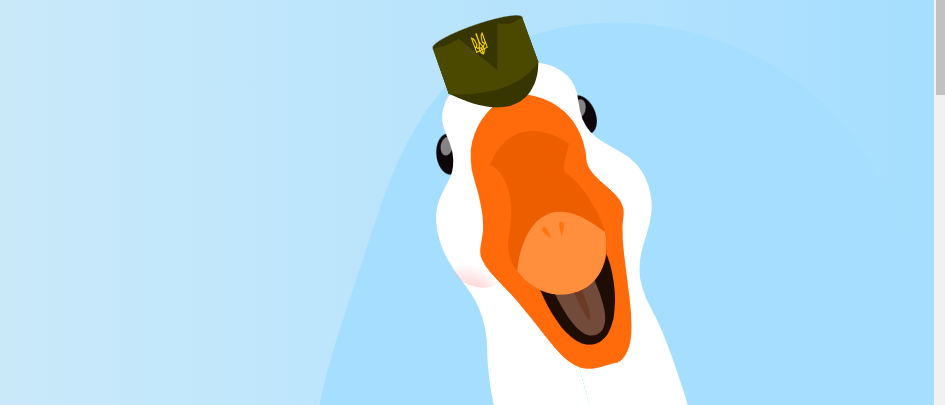
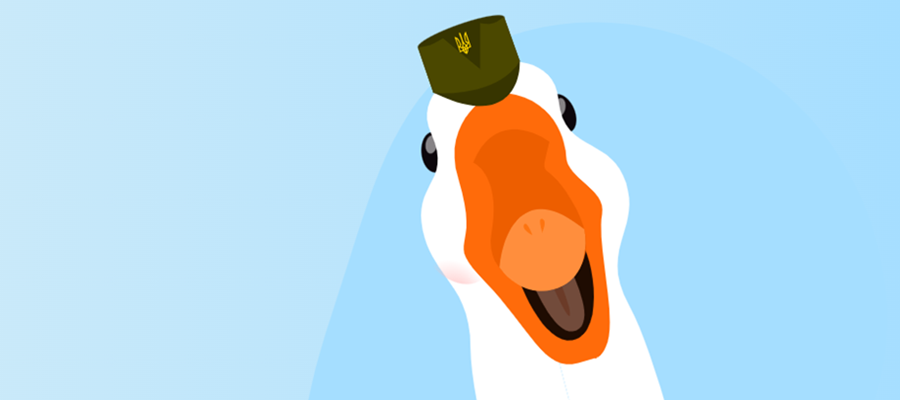
add burger website

diff --git a/styles.css b/styles.css
@@ -8,8 +8,8 @@
 
 .light-mode {
     --color-text: rgb(15, 28, 50);
-    --color-bg: rgb(201, 238, 247);
-    --color-bg-cart: rgb(108, 76, 136);
+    --color-bg: rgb(179, 242, 246);
+    --color-bg-cart: rgb(102, 185, 183);
     --color-menu-text: rgb(208, 224, 240);
     --color-menu-text-hover: rgb(168, 226, 241);
 }
@@ -160,44 +160,46 @@ h2 {
     transform: scale(1.2);
 }
 
-
-
 /* Home page */
 
 .home-page-section {
+    display: flex;
     width: 100%;
     height: 100vh;
-    padding: 28px 0;
+    padding: 28px;
+    justify-content: center;
 }
 
 .home-page-content {
     display: flex;
     flex-direction: column-reverse;
     align-items: center;
-    height: 100vh;
     justify-content: start;
+    margin-top: 10vh;
 }
 
 .home-page-content img {
     background: transparent;
     background-color: transparent;
-    height: 240px;
-    width: 240px;
+    width: 280px;
 }
 
 .home-page-text {
-    padding-top: 16vh;
-    justify-content: center;
+    border-radius: 20px;
+    border-width: 1px 1px 4px 4px;
+    border-style: solid;
+    border-color: black;
+    background-color: var(--color-bg-cart);
+    padding: 16px 30px;
 }
 
 .home-page-text h1 {
     font-size: 40px;
-    margin: 0;
+    margin-bottom: 8px;
 }
 
 .home-page-text h3 {
     font-size: 20px ;
-    margin: 0;
 }
 
 /* Projects */
@@ -219,15 +221,16 @@ h2 {
 .project-cart {
     background: var(--color-bg-cart);
     padding: 8px 16px;
-    border-width: 1px 1px 4px 4px;
-    border-style: solid;
-    border-color: black;
     opacity: .8;
     height: auto;
     aspect-ratio: 20 / 12 ;
     will-change: transform, opacity;
     transition: all 0.3s ease;
     overflow: hidden;
+    border-radius: 20px;
+    border-width: 1px 1px 4px 4px;
+    border-style: solid;
+    border-color: black;
 }
 
 .project-cart:hover {
@@ -245,15 +248,16 @@ h2 {
 }
 
 .project-cart img {
-    max-width: 90%; 
+    position: absolute;
+    bottom: 6px;
+    max-width: 82%; 
     height: auto;
-    object-fit: contain;
     object-fit: cover;
-    clip-path: polygon(3% 0%, 100% 0%, 97% 100%, 0% 100%);
     margin: 8px;
+    border: 1px solid var(--color-text);
+    border-radius: 5px;
     transition: all 0.6s ease;
 }
-
 
 /* info */
 
@@ -497,7 +501,6 @@ input:-internal-autofill {
 }
 
 @media (min-width: 768px){
-
     .right-side {
         width: 60%;
         display: flex;
@@ -538,6 +541,28 @@ input:-internal-autofill {
     .nav-menu li a:hover {
         transform: scale(1.2);
     }
+
+    .home-page-section {
+        align-items: center;
+    }
+
+    .home-page-content {
+        margin-top: 20vh;
+        position: relative;
+        justify-content: end;
+    }
+
+    .home-page-text {
+    padding-left: 260px;
+    width: 100%;
+    }
+
+    .home-page-content img {
+        position: absolute;
+        left: -20px;
+        width: 300px;
+    }
+
     .cart-container {
         padding-top: 24px;
         gap: 14px;
@@ -573,8 +598,7 @@ input:-internal-autofill {
     }
     
     .project-cart img {
-        height: 70%;
-        margin: 8px;
+        width: 90%;
     }
     .cart-container {
         padding-top: 40px;

diff --git a/index.html b/index.html
@@ -46,14 +46,14 @@
                     <a href="https://tiny-pudding-5e6dc5.netlify.app/" target="_blank">
                         <h3 id="gus-tittle">Banderogus</h3>
                         <p id="gus-description">A small website taken from the GO IT marathon, to which I made stylistic changes and adjusted the form's functionality</p>
-                        <img src="img/Gus.png"   alt="">
+                        <img src="img/Gus.png" alt="">
                     </a>
                 </article>
                 <article class="project-cart">
-                    <a href="https://tiny-pudding-5e6dc5.netlify.app/" target="_blank">
-                        <h3 id="gus2-tittle">Banderogus</h3>
-                        <p id="gus2-description">A small website taken from the GO IT marathon, to which I made stylistic changes and adjusted the form's functionality</p> 
-                        <img src="img/Gus.png"   alt="">
+                    <a href="https://best-burger-site.netlify.app/" target="_blank">
+                        <h3 id="burger-tittle">BestBurger</h3>
+                        <p id="burger-description">Small animated food delivery website</p> 
+                        <img src="img/best-burg.png" alt="">
                     </a>
                 </article>
             </div>

diff --git a/js/translation.js b/js/translation.js
@@ -45,13 +45,13 @@ document.addEventListener("DOMContentLoaded", function () {
             en: "A small website taken from the GO IT marathon, to which I made stylistic changes and adjusted the form's functionality",
             uk: "Невеликий вебсайт, створений на марафоні GO IT, до якого я вніс стилістичні зміни та налаштував функціональність форми"
         },
-        "gus2-description": {
-            en: "A small website taken from the GO IT marathon, to which I made stylistic changes and adjusted the form's functionality",
-            uk: "Невеликий вебсайт, створений на марафоні GO IT, до якого я вніс стилістичні зміни та налаштував функціональність форми"
+        "burger-description": {
+            en: "Small animated food delivery website",
+            uk: "Невеликий анімований сайт доставки їжі"
         },
-        "gus2-tittle": {
-            en: "Banderogus",
-            uk: "Бандерогусь"
+        "burger-tittle": {
+            en: "BestBurger",
+            uk: "BestBurger"
         },
         "info-tittle": {
             en: "Info",

diff --git a/js/menuToggle.js b/js/menuToggle.js
@@ -33,9 +33,9 @@ window.addEventListener("scroll", function () {
     const header = document.querySelector(".header");
     const menu = document.getElementById("nav-menu")
     if (window.scrollY > 50) {
-        header.style.background = "rgba(15, 10, 38, 0.5)";
+        header.style.background = "rgba(30, 19, 76, 0.5)";
     } else {
-        header.style.background = "rgba(15, 10, 38, 0.7)";
+        header.style.background = "rgba(29, 18, 75, 0.7)";
     }
     menu.classList.remove("show")
 });
